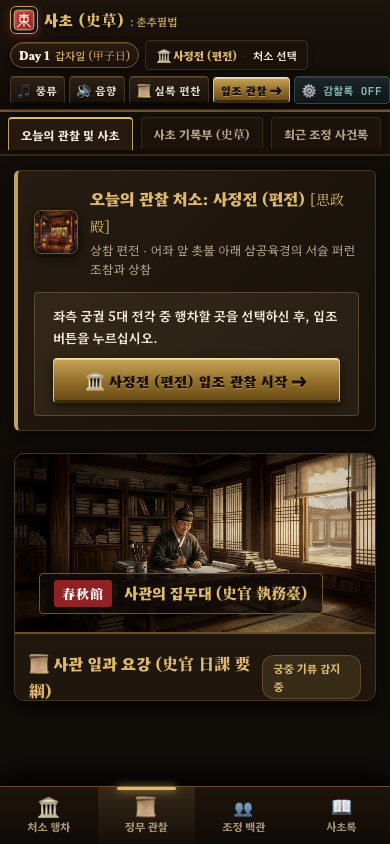
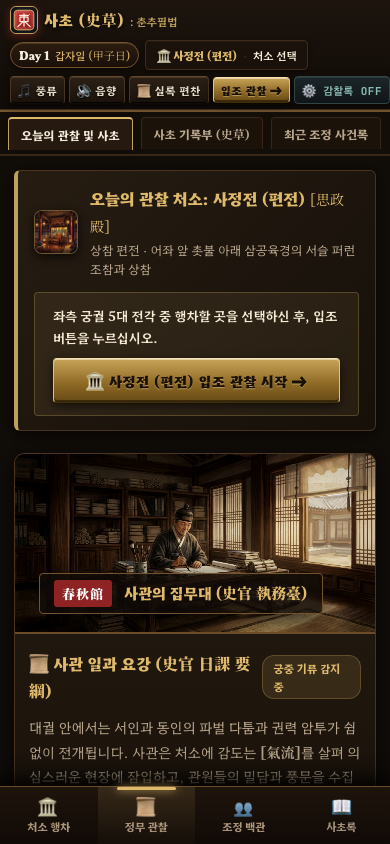
fix: Prevent chamber card flex-shrink to restore full center stage scrollability on desktop and mobile

Changed region(s): [[0.0615, 0.8318, 0.9231, 0.9858]]

diff --git a/tests/e2e/court-game.spec.ts b/tests/e2e/court-game.spec.ts
@@ -39,6 +39,12 @@ test.describe('조선 사관 시뮬레이션: 사초: 춘추필법 E2E 테스트
 
     // 스크린샷 저장
     await page.screenshot({ path: 'screenshots/01-initial-court.png', fullPage: true });
+
+    // 중앙 무대(정무 관찰) 스크롤 검증: 사관 일과 요강 및 지침 카드로 스크롤 이동
+    const lastTipItem = page.locator('.chamber-tip-item').last();
+    await lastTipItem.scrollIntoViewIfNeeded();
+    await expect(lastTipItem).toBeVisible();
+    await page.screenshot({ path: 'screenshots/10-desktop-court-scrolled.png' });
   });
 
   test('2. 사관의 하루 일과: 처소 선택, 정무 관찰, 사초 집필 루프 검증', async ({ page }) => {

diff --git a/src/styles/main.css b/src/styles/main.css
@@ -764,6 +764,7 @@ body {
 }
 
 .observation-banner {
+  flex-shrink: 0;
   background: linear-gradient(135deg, #261c12 0%, #161009 100%);
   border: 1px solid #4a3420;
   border-left: 4px solid var(--border-gold);
@@ -848,6 +849,7 @@ body {
 /* 춘추관 집무실 로비 */
 .chunchugwan-chamber-card,
 .chamber-lobby {
+  flex-shrink: 0;
   background: linear-gradient(180deg, #1e150d 0%, #130d07 100%);
   border: 1.5px solid #4a3520;
   border-radius: var(--radius-lg);
@@ -1005,6 +1007,7 @@ body {
 }
 
 .info-card-list {
+  flex-shrink: 0;
   display: flex;
   flex-direction: column;
   gap: 20px;
